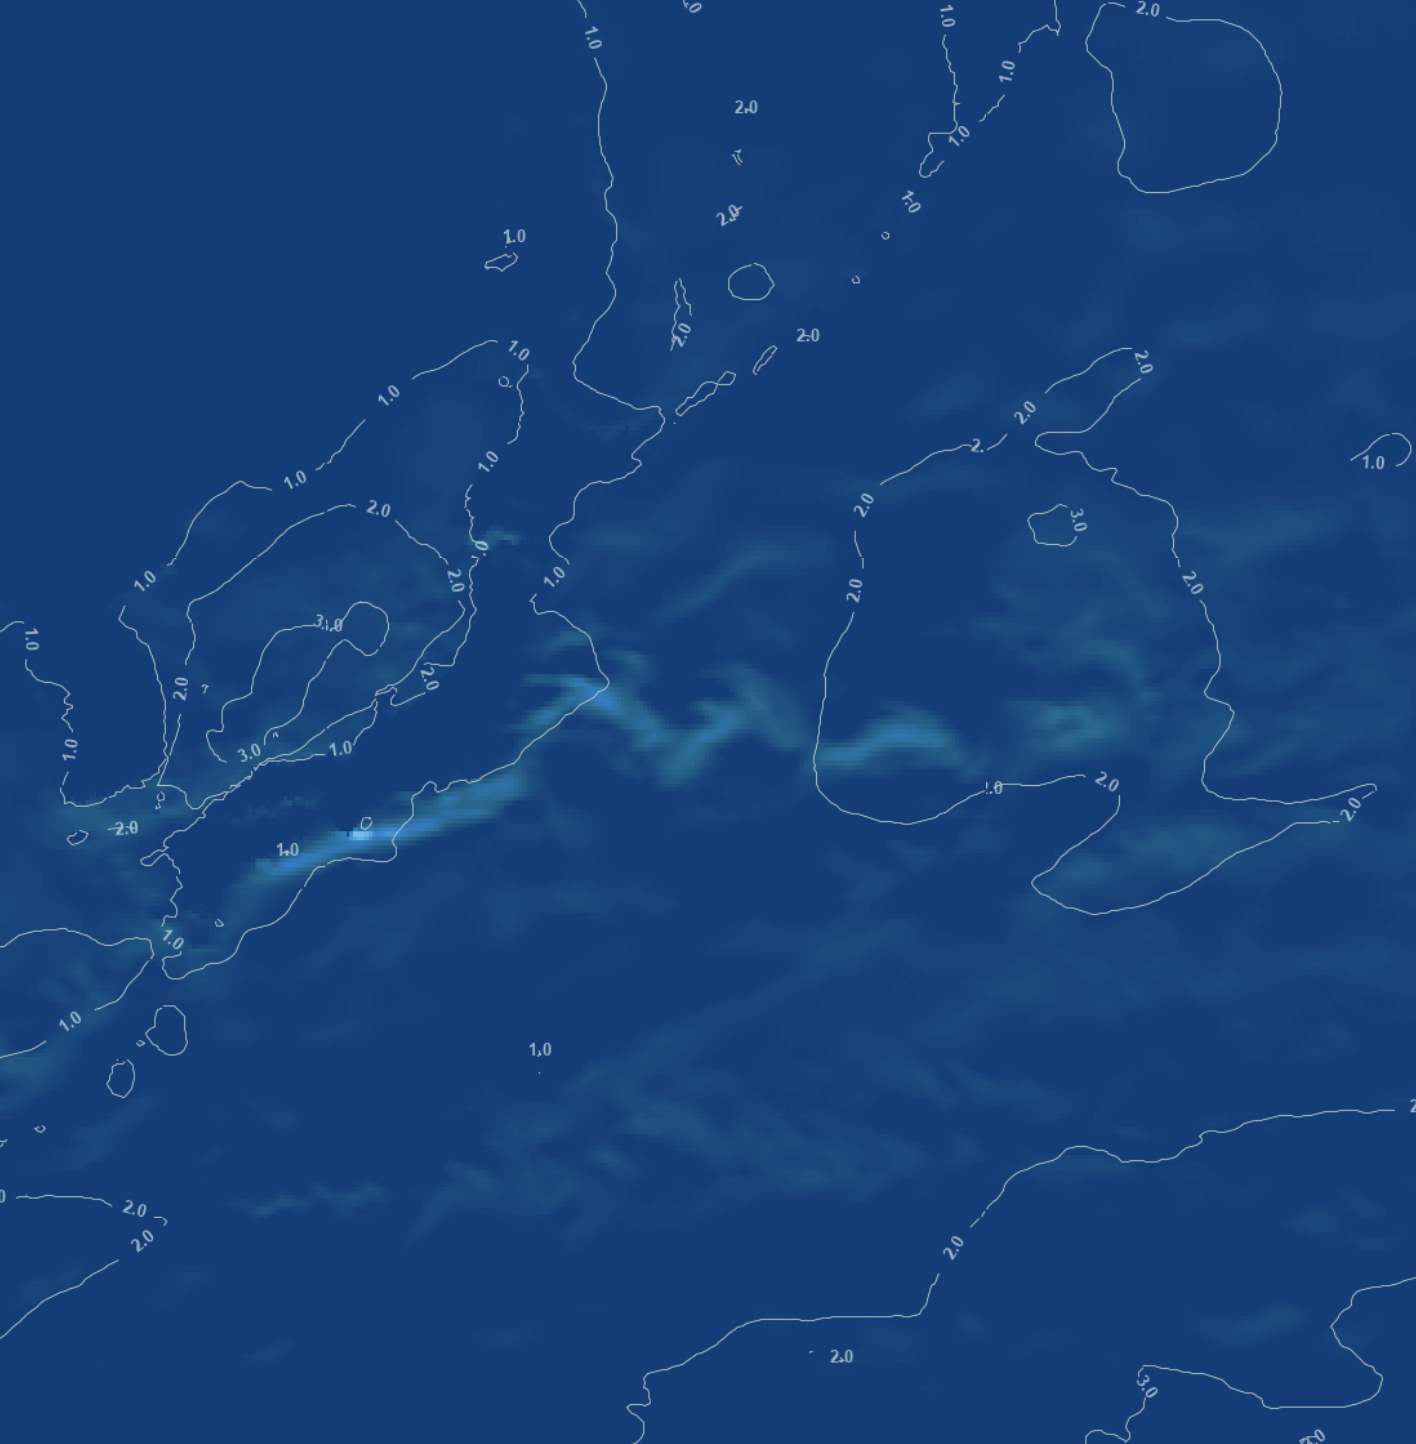
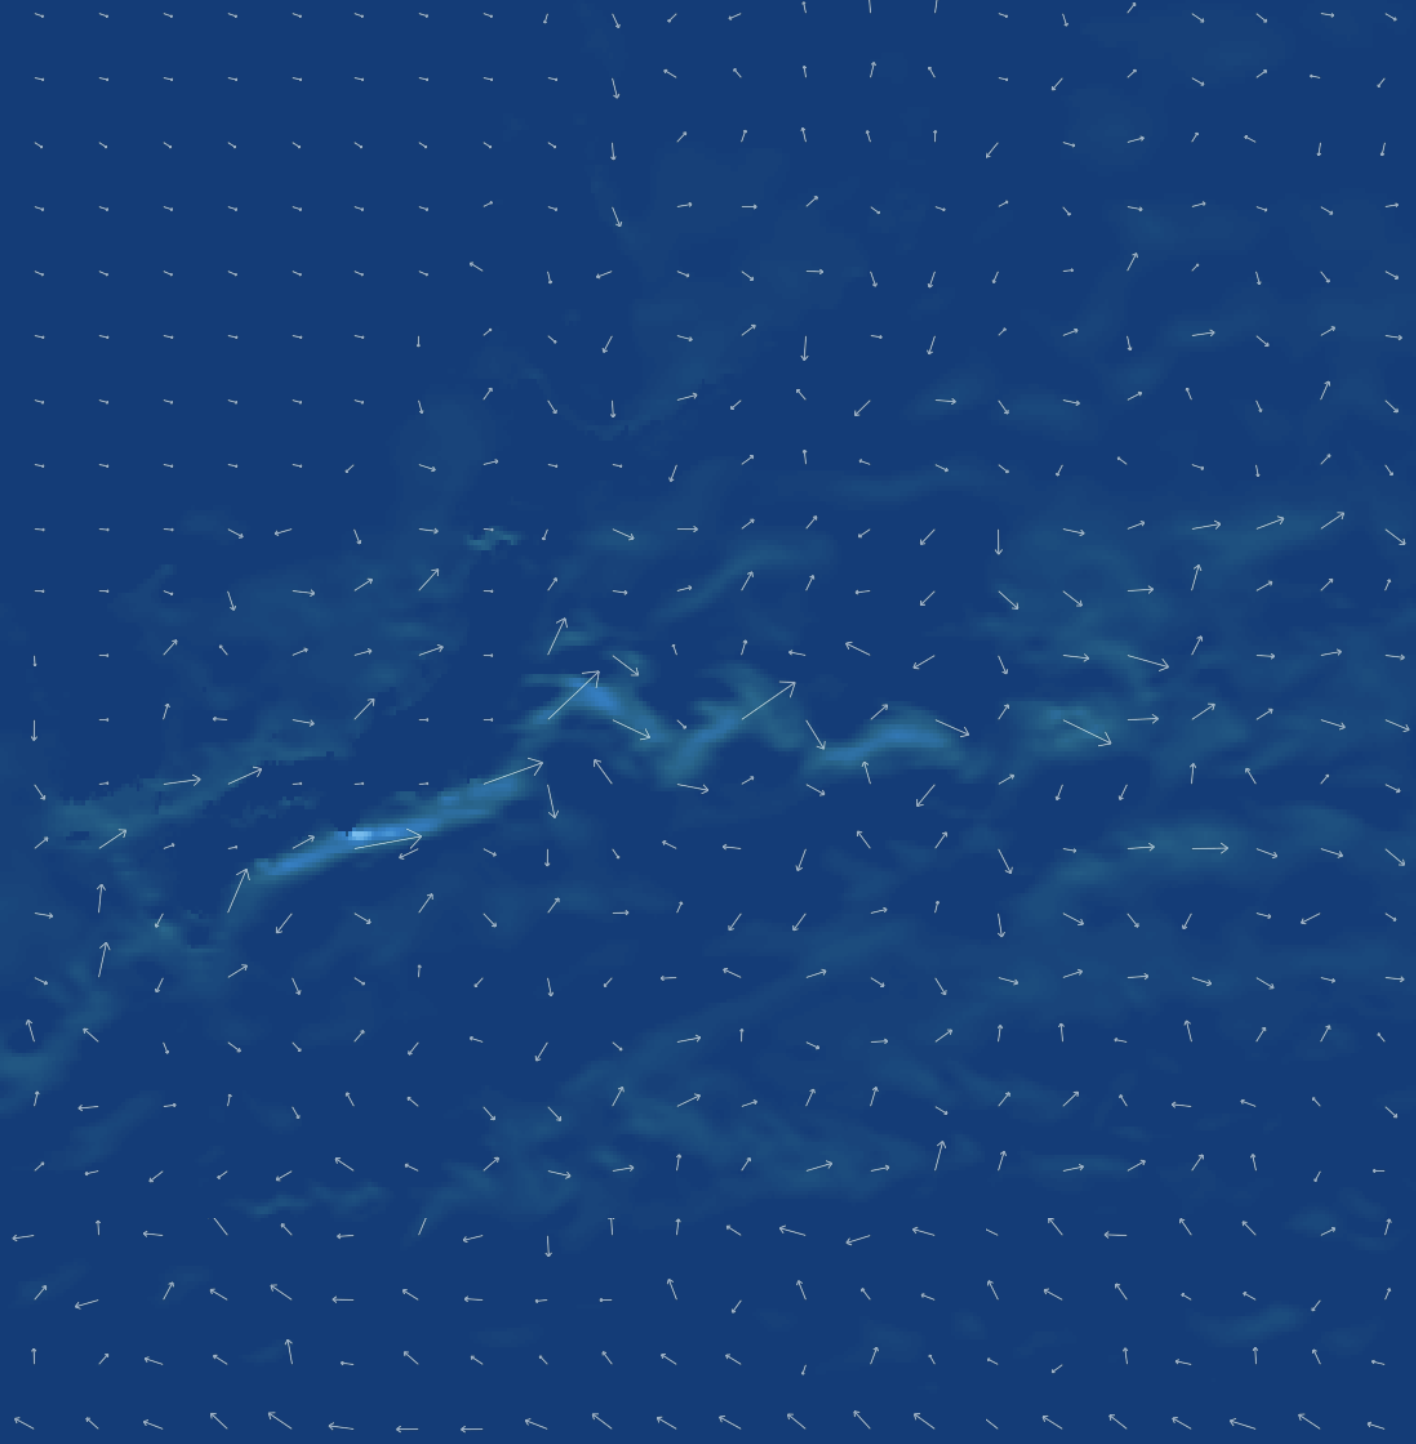
update currents legends image

diff --git a/config.js b/config.js
@@ -78,7 +78,7 @@ var config = {
         {
             id: 'wms-legends',
             title: 'Legend Images to Guide Interpretation',
-            image: './images/two_legends.png',
+            image: './images/currents_legends.png',
             description: "Every WMS style and data combination has an associated legend image to help users interpret the layer. \
             <br><br>\
             The Kuroshio and Oyashio currents.",
@@ -114,8 +114,8 @@ var config = {
             The relationship between wind and waves is particularly evident here, with larger waves (the red areas) often forming in and following concentrated regions of strong winds. \
             The condensed area of heavy weather moving from top left to bottom right is actually showing Tropical Cyclone Harold as it travels from Fiji into the open ocean.",
             location: {
-                center: [-180, -37.16706],
-                zoom: 2.74,
+                center: [160, -42],
+                zoom: 5.0,
                 pitch: 12.50,
                 bearing: 0.63
             },
